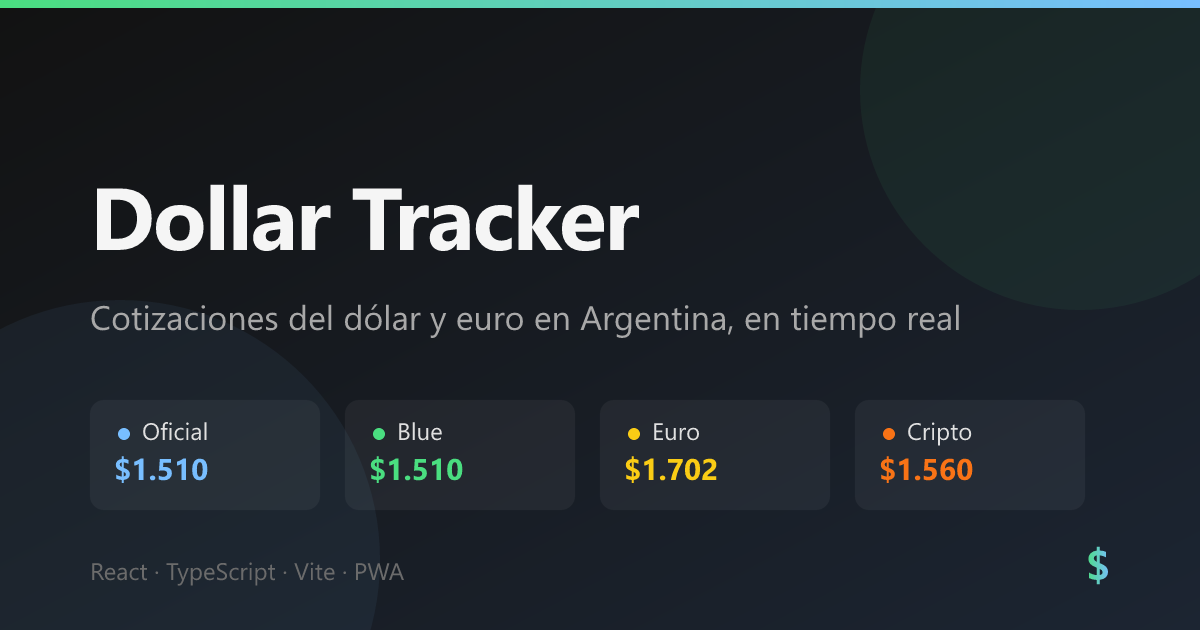
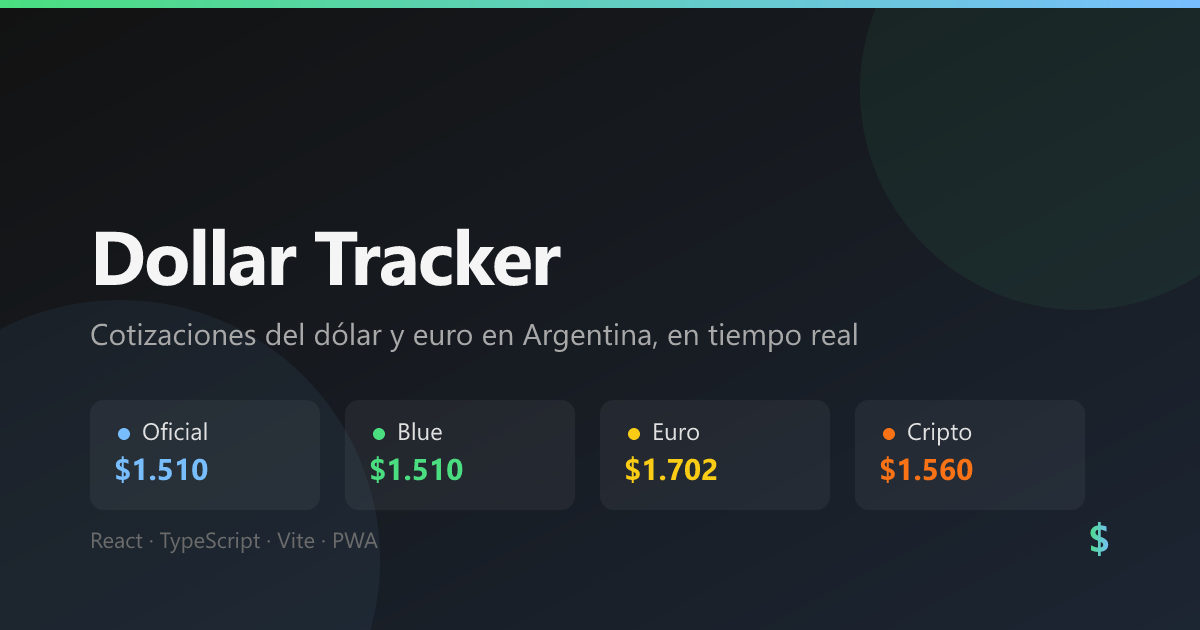
feat: update og-image and enhance QuoteCard with accent colors

diff --git a/src/App.tsx b/src/App.tsx
@@ -3,12 +3,13 @@ import QuoteCard from "./components/QuoteCard";
 import { useCotizaciones } from "./useCotizaciones";
 
 const CARDS = [
-  { key: "oficial", icon: "🏦", label: "Oficial" },
-  { key: "blue", icon: "🟦", label: "Blue" },
-  { key: "bolsa", icon: "📈", label: "MEP (Bolsa)" },
-  { key: "contadoconliqui", icon: "🌎", label: "CCL" },
-  { key: "cripto", icon: "₿", label: "Cripto" },
-  { key: "eur_oficial", icon: "💶", label: "Euro Oficial" },
+  { key: "oficial", icon: "🏦", label: "Oficial", accent: "#78beff" },
+  { key: "blue", icon: "🟦", label: "Blue", accent: "#4ade80" },
+  { key: "bolsa", icon: "📈", label: "MEP (Bolsa)", accent: "#c084fc" },
+  { key: "contadoconliqui", icon: "🌎", label: "CCL", accent: "#f472b6" },
+  { key: "cripto", icon: "₿", label: "Cripto", accent: "#f97316" },
+  { key: "tarjeta", icon: "💳", label: "Tarjeta", accent: "#fb7185" },
+  { key: "eur_oficial", icon: "💶", label: "Euro Oficial", accent: "#facc15" },
 ] as const;
 
 export default function App() {
@@ -35,11 +36,12 @@ export default function App() {
       </header>
 
       <main className="grid">
-        {CARDS.map(({ key, icon, label }) => (
+        {CARDS.map(({ key, icon, label, accent }) => (
           <QuoteCard
             key={key}
             icon={icon}
             label={label}
+            accent={accent}
             data={state[key]?.data ?? null}
             previousVenta={state[key]?.previousVenta ?? null}
             status={state[key]?.status ?? "loading"}

diff --git a/src/App.css b/src/App.css
@@ -23,6 +23,15 @@
   font-size: 2.5rem;
   line-height: 1.05;
   letter-spacing: -0.02em;
+  background: linear-gradient(90deg, #4ade80, #78beff);
+  -webkit-background-clip: text;
+  background-clip: text;
+  color: transparent;
+  display: inline-block;
+}
+
+.titleIcon {
+  -webkit-text-fill-color: initial;
 }
 
 .titleIcon {
@@ -107,11 +116,27 @@
   letter-spacing: -0.01em;
 }
 
+.quoteCard {
+  --accent: #78beff;
+}
+
+.quoteTitle::before {
+  content: "";
+  display: inline-block;
+  width: 8px;
+  height: 8px;
+  border-radius: 50%;
+  background: var(--accent);
+  margin-right: 8px;
+  vertical-align: middle;
+}
+
 /* Contenedor de datos de cotización */
 .quoteBody {
   position: relative;
   border-radius: 14px;
   border: 1px solid rgba(255, 255, 255, 0.12);
+  border-top: 2px solid var(--accent);
   background: rgba(255, 255, 255, 0.03);
   box-shadow: 0 8px 24px rgb(0 0 0 / 18%);
   padding: 18px;
@@ -120,7 +145,12 @@
   flex-direction: column;
   justify-content: center;
   gap: 14px;
-  transition: border-color 0.2s, background 0.2s;
+  transition: border-color 0.2s, background 0.2s, transform 0.2s;
+}
+
+.quoteBody:hover {
+  transform: translateY(-2px);
+  background: rgba(255, 255, 255, 0.045);
 }
 
 .quoteBody--error {
@@ -154,7 +184,11 @@
 }
 
 .quotePriceBlock--venta {
-  background: rgba(120, 190, 255, 0.08);
+  background: color-mix(in srgb, var(--accent) 12%, transparent);
+}
+
+.quotePriceValue--accent {
+  color: var(--accent);
 }
 
 .quotePriceLabel {

diff --git a/src/components/QuoteCard.tsx b/src/components/QuoteCard.tsx
@@ -1,8 +1,10 @@
+import type { CSSProperties } from "react";
 import type { Cotizacion } from "../types";
 
 interface Props {
   icon: string;
   label: string;
+  accent: string;
   data: Cotizacion | null;
   previousVenta: number | null;
   status: "loading" | "ready" | "error";
@@ -20,14 +22,14 @@ const timeFormatter = new Intl.DateTimeFormat("es-AR", {
   minute: "2-digit",
 });
 
-export default function QuoteCard({ icon, label, data, previousVenta, status }: Props) {
+export default function QuoteCard({ icon, label, accent, data, previousVenta, status }: Props) {
   const variation =
     data && previousVenta !== null && previousVenta !== 0
       ? ((data.venta - previousVenta) / previousVenta) * 100
       : null;
 
   return (
-    <section className="quoteCard">
+    <section className="quoteCard" style={{ "--accent": accent } as CSSProperties}>
       <header className="quoteHeader">
         <h2 className="quoteTitle">
           {icon} {label}
@@ -47,7 +49,7 @@ export default function QuoteCard({ icon, label, data, previousVenta, status }: 
               </div>
               <div className="quotePriceBlock quotePriceBlock--venta">
                 <span className="quotePriceLabel">Venta</span>
-                <span className="quotePriceValue">{currencyFormatter.format(data.venta)}</span>
+                <span className="quotePriceValue quotePriceValue--accent">{currencyFormatter.format(data.venta)}</span>
               </div>
             </div>
 

diff --git a/src/useCotizaciones.ts b/src/useCotizaciones.ts
@@ -7,6 +7,7 @@ const ENDPOINTS: Record<string, string> = {
   bolsa: "https://dolarapi.com/v1/dolares/bolsa",
   contadoconliqui: "https://dolarapi.com/v1/dolares/contadoconliqui",
   cripto: "https://dolarapi.com/v1/dolares/cripto",
+  tarjeta: "https://dolarapi.com/v1/dolares/tarjeta",
   eur_oficial: "https://dolarapi.com/v1/cotizaciones/eur",
 };
 
